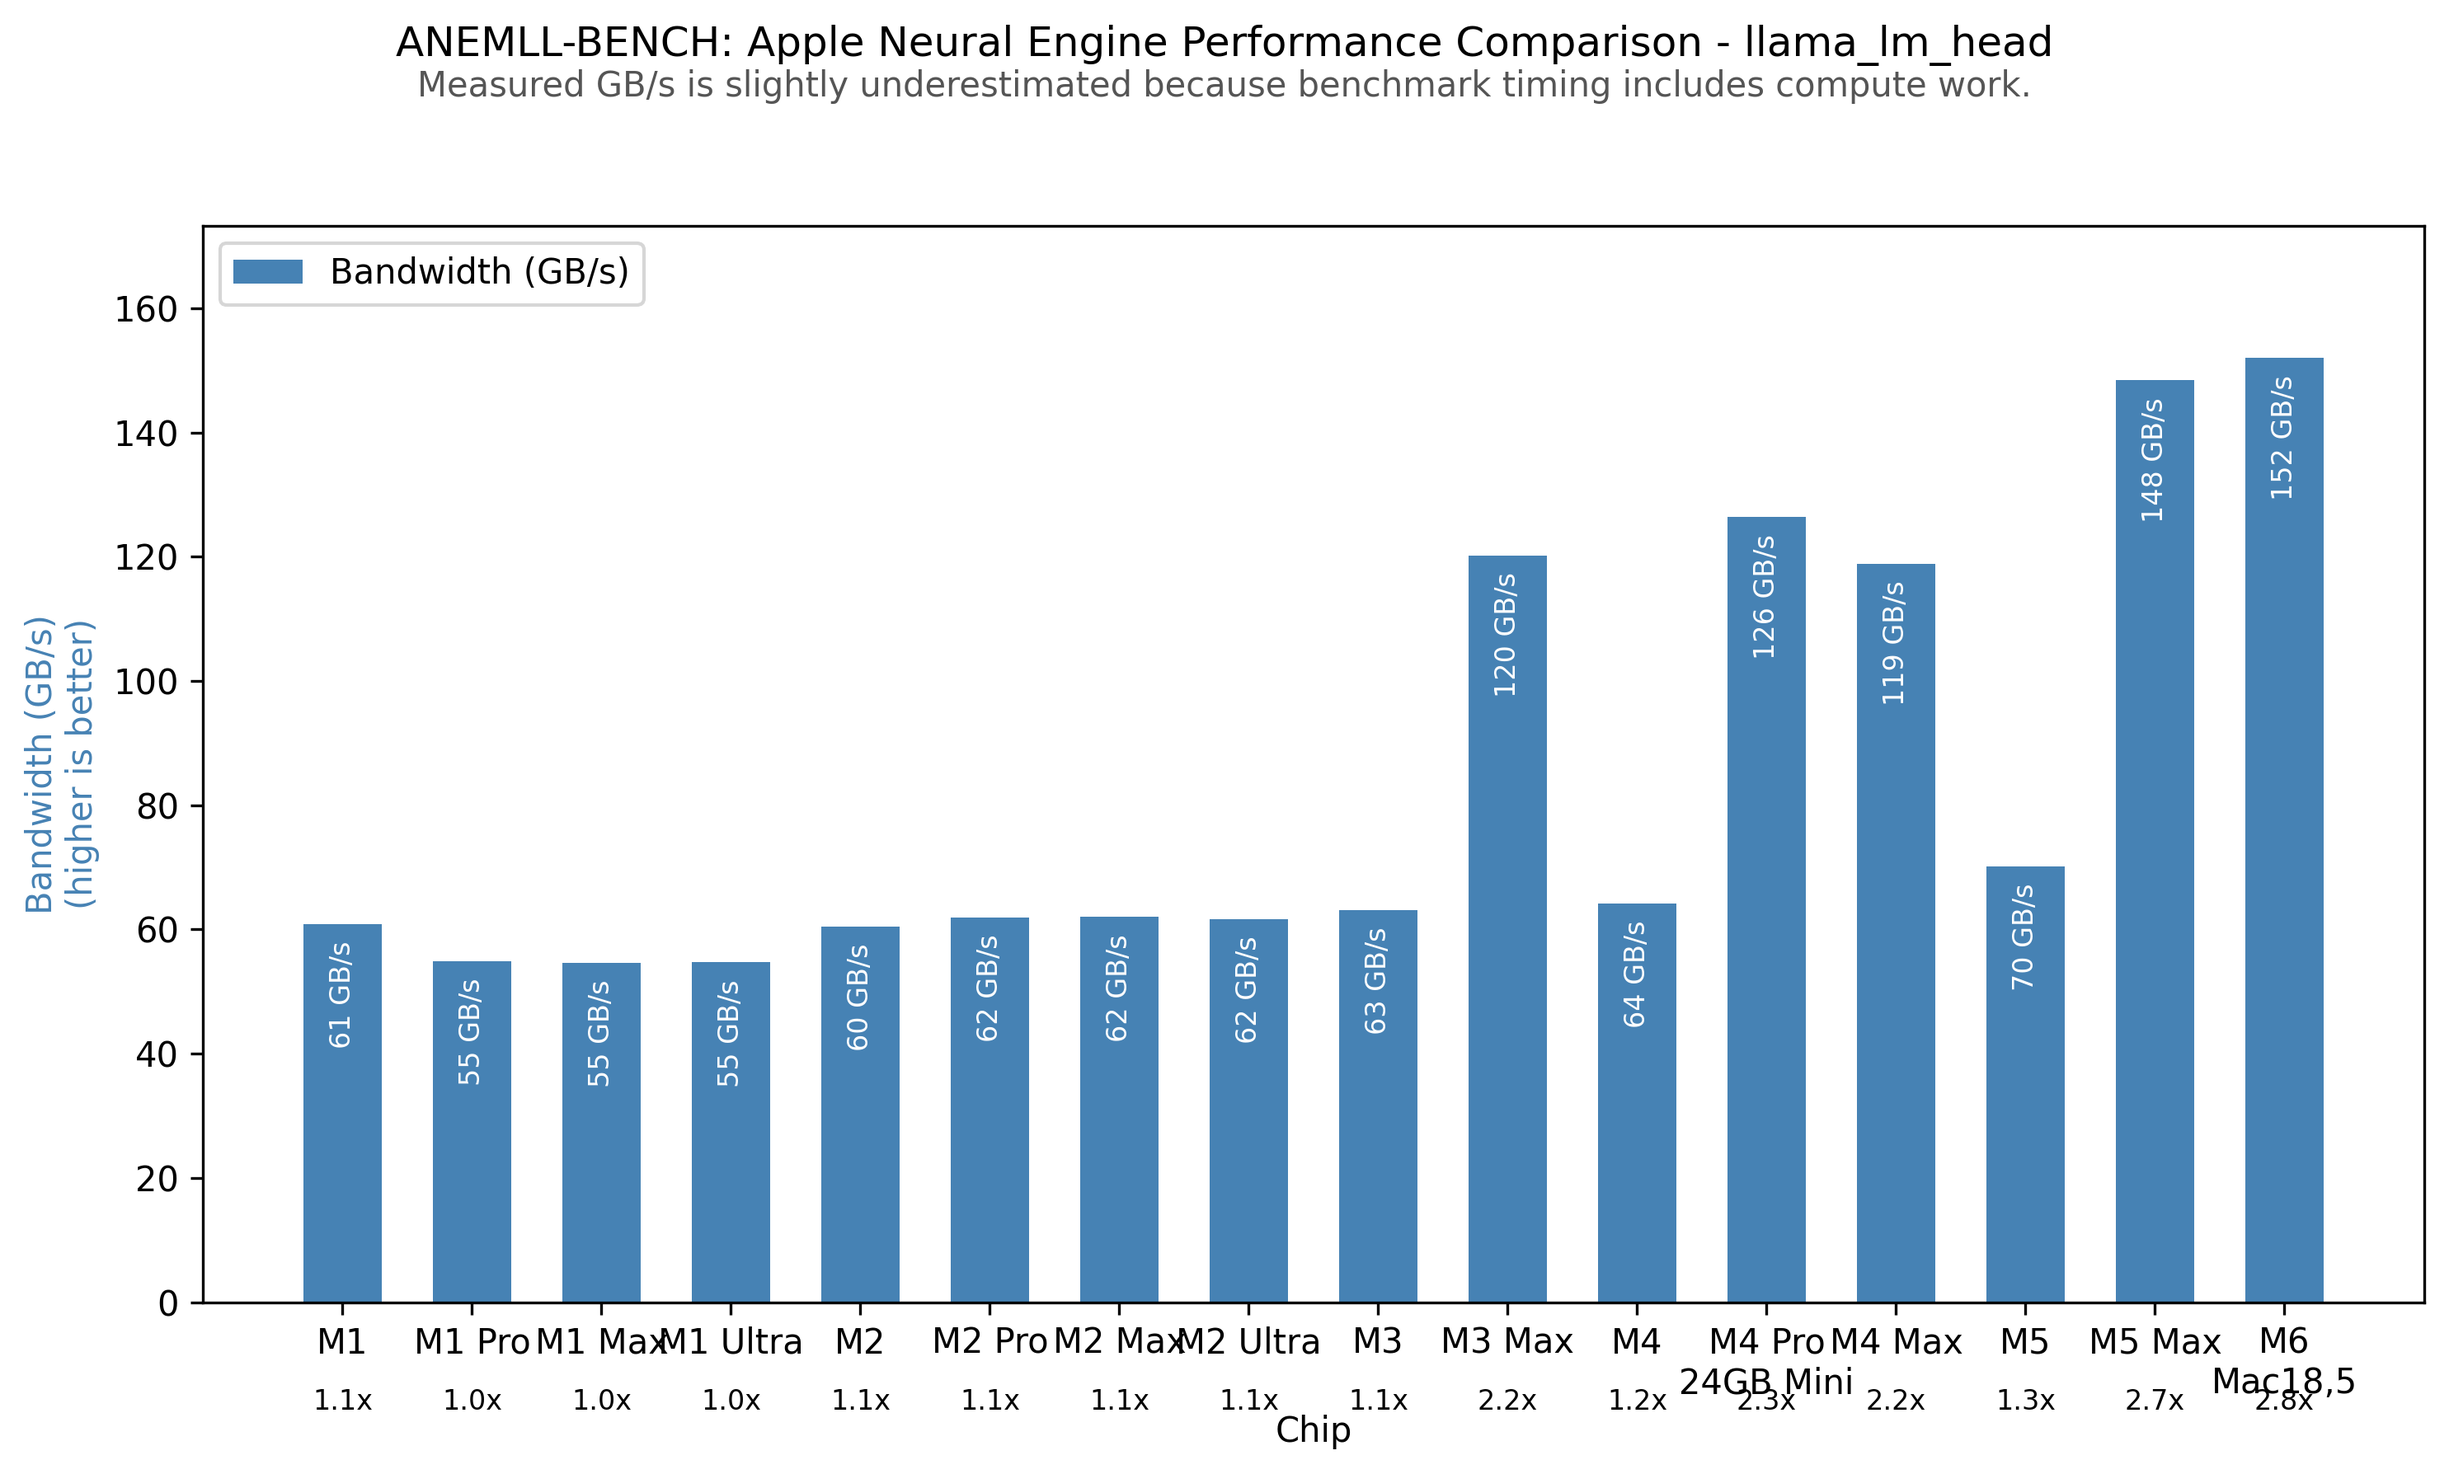
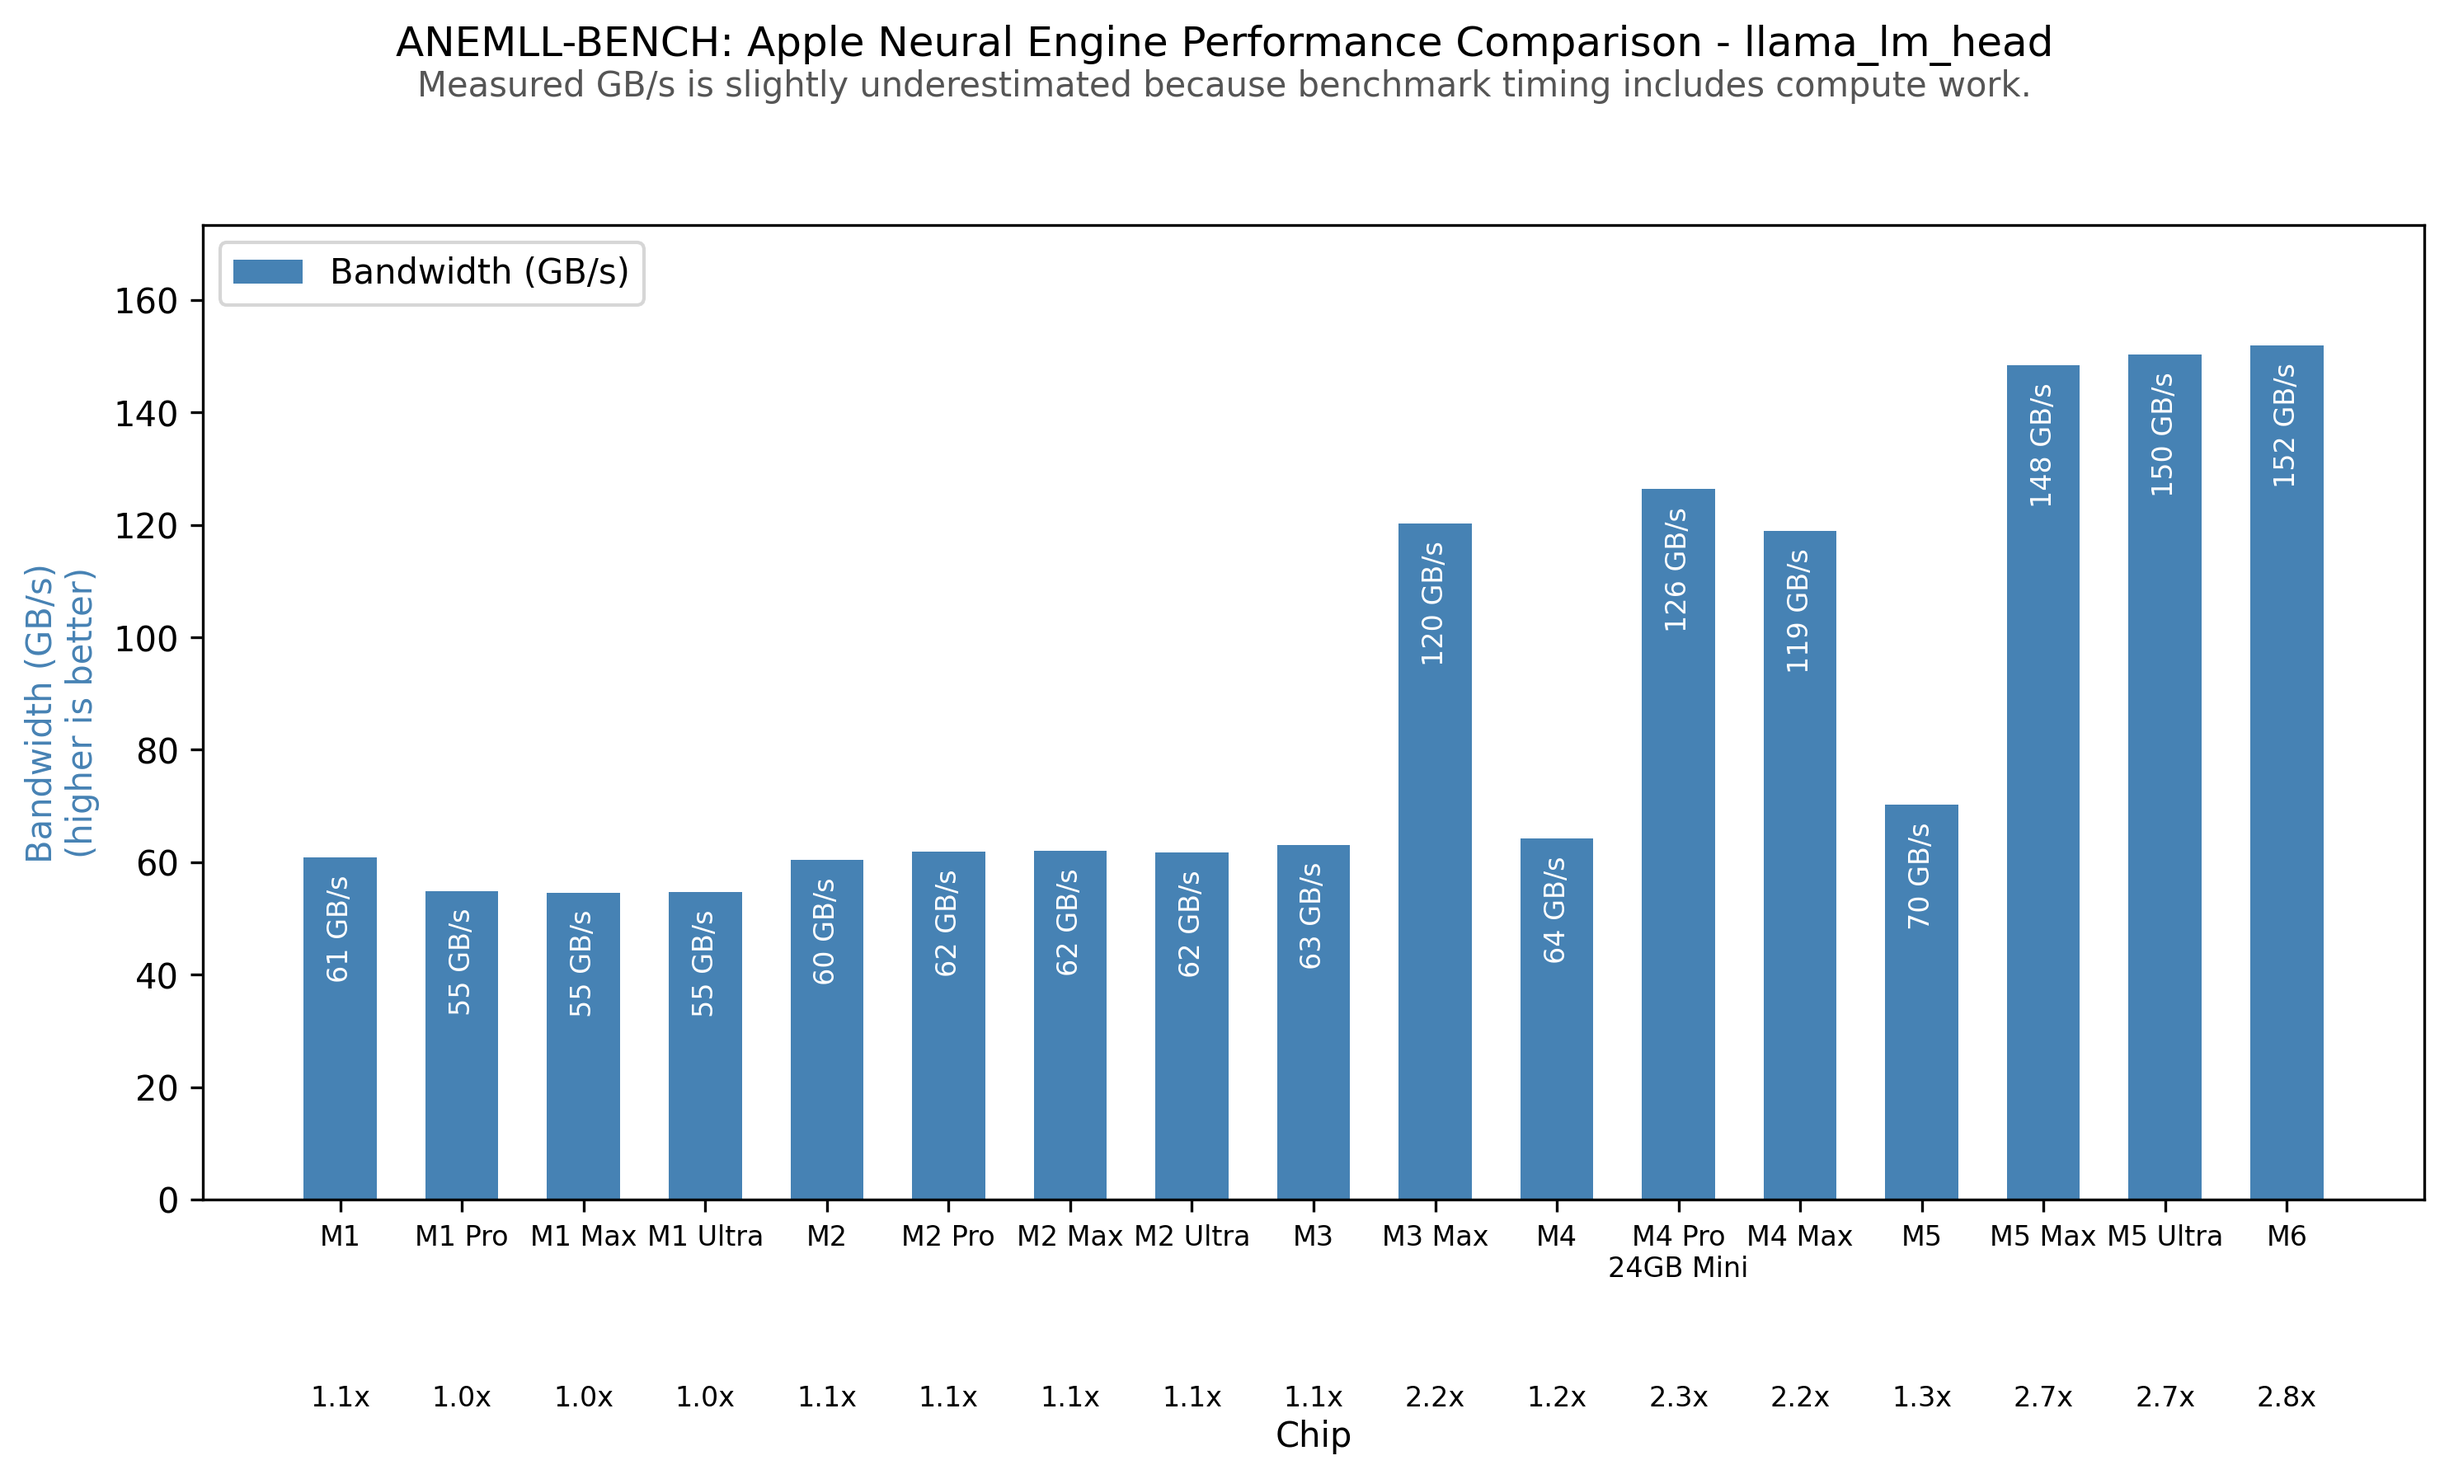
Add M5 Ultra benchmark results

diff --git a/anemll_bench/utils/visualization.py b/anemll_bench/utils/visualization.py
@@ -75,8 +75,8 @@ def plot_chip_comparison(
 
     # Configure the x-axis
     ax1.set_xticks(x)
-    ax1.set_xticklabels(chips)
-    ax1.set_xlabel('Chip')
+    ax1.set_xticklabels(chips, fontsize=8)
+    ax1.set_xlabel('Chip', labelpad=40)
 
     # Set y-axis label
     ax1.set_ylabel('Bandwidth (GB/s)\n(higher is better)', color=bandwidth_color)
@@ -95,17 +95,19 @@ def plot_chip_comparison(
     ax1.legend(loc='upper left')
 
     # Annotate the bandwidth factor labels if provided
+    max_chip_label_lines = max((chip.count('\n') + 1 for chip in chips), default=1)
+    factor_y = -0.12 - 0.07 * (max_chip_label_lines - 1)
     if bandwidth_factor:
         for i, bar in enumerate(bars1):
             x_center = bar.get_x() + bar.get_width() / 2
-            ax1.text(x_center, -0.08, bandwidth_factor[i],
+            ax1.text(x_center, factor_y, bandwidth_factor[i],
                     ha='center', va='top',
                     transform=ax1.get_xaxis_transform(),
                     fontsize=8, color='black')
 
     # Check if any chip labels contain newlines and add more bottom padding if needed
     if any('\n' in chip for chip in chips):
-        plt.subplots_adjust(bottom=0.18)  # Increase bottom margin for multi-line labels
+        plt.subplots_adjust(bottom=0.27)  # Leave room for chip labels and factors
     
     plt.tight_layout(rect=(0, 0, 1, 0.93))
     

diff --git a/examples/plot_chip_comparison.py b/examples/plot_chip_comparison.py
@@ -28,9 +28,9 @@ def main():
     args = parser.parse_args()
 
     # Sample data from llama_lm_head model benchmarks
-    chips = ['M1', 'M1 Pro', 'M1 Max', 'M1 Ultra', 'M2', 'M2 Pro', 'M2 Max', 'M2 Ultra', 'M3', 'M3 Max', 'M4', 'M4 Pro\n24GB Mini', 'M4 Max', 'M5', 'M5 Max', 'M6\nMac18,5']
-    bandwidth = [60.87, 54.90, 54.62, 54.72, 60.45, 61.93, 62.01, 61.68, 63.10, 120.22, 64.18, 126.36, 118.88, 70.21, 148.39, 152.01]  # GB/s (llama_lm_head)
-    bandwidth_factor = ['1.1x', '1.0x', '1.0x', '1.0x', '1.1x', '1.1x', '1.1x', '1.1x', '1.1x', '2.2x', '1.2x', '2.3x', '2.2x', '1.3x', '2.7x', '2.8x']
+    chips = ['M1', 'M1 Pro', 'M1 Max', 'M1 Ultra', 'M2', 'M2 Pro', 'M2 Max', 'M2 Ultra', 'M3', 'M3 Max', 'M4', 'M4 Pro\n24GB Mini', 'M4 Max', 'M5', 'M5 Max', 'M5 Ultra', 'M6']
+    bandwidth = [60.87, 54.90, 54.62, 54.72, 60.45, 61.93, 62.01, 61.68, 63.10, 120.22, 64.18, 126.36, 118.88, 70.21, 148.39, 150.33, 152.01]  # GB/s (llama_lm_head)
+    bandwidth_factor = ['1.1x', '1.0x', '1.0x', '1.0x', '1.1x', '1.1x', '1.1x', '1.1x', '1.1x', '2.2x', '1.2x', '2.3x', '2.2x', '1.3x', '2.7x', '2.7x', '2.8x']
 
     # Option 1: Use plot_chip_comparison directly
     print("Demonstrating direct use of plot_chip_comparison function...\n")

diff --git a/Results.MD b/Results.MD
@@ -16,7 +16,7 @@ The cross-chip comparison below reports `llama_lm_head` memory bandwidth. A hist
 
 The chart below shows performance comparison across Apple Silicon generations for the `llama_lm_head` model:
 
-![Apple Silicon Performance Comparison](./reports/chip_comparison_llama_lm_head.png?v=20260923_v1)
+![Apple Silicon Performance Comparison](./reports/chip_comparison_llama_lm_head.png?v=20260923_m5u_v1)
 
 As shown in the visualization:
 - **M4 Series** chips demonstrate approximately 2.3x higher memory bandwidth compared to M1 series
@@ -24,7 +24,7 @@ As shown in the visualization:
 - **Base M2** has slightly better bandwidth than M1 series
 - The M2 Pro/Max/Ultra and M4 base model show modest improvements, while M3 Max and high-end M4 variants represent significant leaps in performance
 - **M5** shows a 1.3x memory-bandwidth improvement over M1 series
-- **M5 Max** and **M6 (Mac18,5, 32 GB)** are the two highest reported single-model bandwidth results, at 148.39 GB/s and 152.01 GB/s respectively
+- **M5 Max**, **M5 Ultra (36/80/256)**, and **M6 (Mac18,5, 32 GB)** are the three highest reported single-model bandwidth results, at 148.39 GB/s, 150.33 GB/s, and 152.01 GB/s respectively
 
 ## Detailed Benchmark Results
 
@@ -47,6 +47,7 @@ As shown in the visualization:
 | M4 Max | 118.88 | 2.2x |
 | M5 | 70.21 | 1.3x |
 | M5 Max | 148.39 | 2.7x |
+| M5 Ultra (36C CPU / 80C GPU / 256 GB) | 150.33 | 2.7x |
 | M6 (Mac18,5, 32 GB) | 152.01 | 2.8x |
 
 ### Verified `llama_lm_head` Single-Model Latency
@@ -54,6 +55,7 @@ As shown in the visualization:
 | Chip | Inference Time (ms) | Model Size (MB) | Provenance |
 |------|--------------------:|----------------:|------------|
 | M5 Max | 7.08 | 1050.67 | Standalone benchmark report |
+| M5 Ultra (36C CPU / 80C GPU / 256 GB) | 6.99 | Not stated | Contributor-supplied result; run count and warmup policy not stated |
 | M6 (Mac18,5, 32 GB) | 6.91 | 1050.67 | Supplied benchmark report; run count and warmup policy not stated |
 
 ### Key Observations
@@ -65,7 +67,7 @@ As shown in the visualization:
    - M3 Max and high-end M4 variants represent the first large bandwidth step in this dataset
    - The base M4 16GB shows modest improvements (~1.2x) over M1 series, significantly underperforming both M3 Max and higher-end M4 variants
    - **M5** reaches 70.21 GB/s, between the base M2/M3 tier and the higher-bandwidth variants
-   - **M5 Max** and **M6** reach 148.39 GB/s and 152.01 GB/s respectively; parallel/combined dual-model values are not used in the cross-chip table
+   - **M5 Max**, **M5 Ultra**, and **M6** reach 148.39 GB/s, 150.33 GB/s, and 152.01 GB/s respectively; parallel/combined dual-model values are not used in the cross-chip table
 
 2. **Memory Bandwidth Efficiency**:
    - M3 Max and high-end M4 series show ~2.2-2.3x improvement in memory bandwidth utilization
@@ -73,7 +75,7 @@ As shown in the visualization:
    - This indicates that the substantial architectural improvements in the Neural Engine started with the M3 generation
    - Entry-level M4 16GB shows ~1.2x improvement, suggesting memory configuration or thermal constraints may be factors
    - M5 achieves 1.3x memory bandwidth improvement, falling between M2 and M3 Max performance levels
-   - M5 Max reaches 2.7x bandwidth over M1 Pro, while the M6 (Mac18,5, 32 GB) report reaches 2.8x; the M6 report is a single reported result rather than the existing multi-run dataset
+   - M5 Max and M5 Ultra reach 2.7x bandwidth over M1 Pro, while the M6 (Mac18,5, 32 GB) report reaches 2.8x; the M5 Ultra and M6 reports are single reported results rather than the existing multi-run dataset
 
 3. **Latency Comparison Status**:
    - The historical M1–M5 latency values came from a `llama_lm_head_lut6` sample list while the surrounding table claimed the full `llama_lm_head`; they are intentionally not used for cross-chip factors or conclusions
@@ -84,6 +86,7 @@ As shown in the visualization:
 | Chip | ANE BW (GB/s) | System Mem BW (GB/s) | ANE Utilization |
 |------|---------------:|--------------------:|----------------:|
 | **M6 (32 GB)** | **152** | **170** | **89%** |
+| **M5 Ultra (36/80/256)** | **150** | **1200** | **13%** |
 | **M5 Max** | **148** | **614** | **24%** |
 | M4 Pro | 126 | 273 | 46% |
 | M3 Max | 120 | 400 | 30% |
@@ -100,10 +103,10 @@ As shown in the visualization:
 | M1 Ultra | 55 | 800 | 7% |
 | M1 Max | 55 | 400 | 14% |
 
-The M6 (32 GB) report reaches 152.01 GB/s, or about 89% of its 170 GB/s unified-memory bandwidth. Because the reported timing includes compute work, this utilization is slightly conservative.
+The M6 (32 GB) report reaches 152.01 GB/s, or about 89% of its 170 GB/s unified-memory bandwidth. The M5 Ultra (36/80/256) contributor result reaches 150.33 GB/s, or about 13% of its 1.2 TB/s unified-memory bandwidth. Because the reported timing includes compute work, these utilization values are slightly conservative.
 
 The ANE does not scale linearly with system memory bandwidth. Three clear performance tiers emerge:
-- **Tier 1 (~120-152 GB/s)**: M6 (Mac18,5), M5 Max, M4 Pro, M3 Max, M4 Max — architectural ANE improvements
+- **Tier 1 (~120-152 GB/s)**: M6 (Mac18,5), M5 Ultra, M5 Max, M4 Pro, M3 Max, M4 Max — architectural ANE improvements
 - **Tier 2 (~60-70 GB/s)**: M5, M4, M3, M2 series, M1 — base ANE performance
 - **Tier 3 (~55 GB/s)**: M1 Pro/Max/Ultra — first-generation ANE with no scaling across variants
 
@@ -118,6 +121,18 @@ The ANE does not scale linearly with system memory bandwidth. Three clear perfor
 | Combined (parallel) | 14.21 | 147.62 | 2101.35 |
 
 The M5 Max maintains nearly identical combined throughput (147.62 GB/s) when running two models in parallel compared to individual runs (~147 GB/s), demonstrating efficient bandwidth utilization across both ANE clusters.
+
+### Dual Model Benchmark Results (M5 Ultra, 36C CPU / 80C GPU / 256 GB)
+
+| Configuration | Inference Time (ms) | Estimated Throughput (GB/s) |
+|--------------|--------------------:|----------------------------:|
+| llama_lm_head (alone) | 6.98 | — |
+| DeepHermes_lm_head (alone) | 6.98 | — |
+| llama_lm_head (concurrent) | 14.00 | — |
+| DeepHermes_lm_head (concurrent) | 12.67 | — |
+| Combined (concurrent) | — | 150.07 |
+
+The M5 Ultra contributor result reports 150.07 GB/s combined throughput when both models run concurrently. That is effectively the same as its 150.33 GB/s single-model `llama_lm_head` result, so the dual-model value is documented separately and is not used in the cross-chip single-model chart.
 
 ## Running Your Own Benchmarks
 

diff --git a/README.md b/README.md
@@ -36,7 +36,7 @@ ANEMLL-Bench is part on ANEMLL Open Source Project [anemll.com](https://anemll.c
 
 ## 📊 [View Benchmark Results](./Results.MD) 📊
 
-[![Apple Silicon Performance Comparison](./reports/chip_comparison_llama_lm_head.png?v=20260923_v1)](./Results.MD)
+[![Apple Silicon Performance Comparison](./reports/chip_comparison_llama_lm_head.png?v=20260923_m5u_v1)](./Results.MD)
 
 Check out our latest [benchmark results](./Results.MD) comparing performance across different Apple Silicon chips (M1 through M6 series).
 
@@ -45,6 +45,7 @@ Check out our latest [benchmark results](./Results.MD) comparing performance acr
 | Chip | ANE BW (GB/s) | System Mem BW (GB/s) | ANE Utilization |
 |------|---------------:|--------------------:|----------------:|
 | **M6 (32 GB)** | **152** | **170** | **89%** |
+| **M5 Ultra (36/80/256)** | **150** | **1200** | **13%** |
 | **M5 Max** | **148** | **614** | **24%** |
 | M4 Pro | 126 | 273 | 46% |
 | M3 Max | 120 | 400 | 30% |
